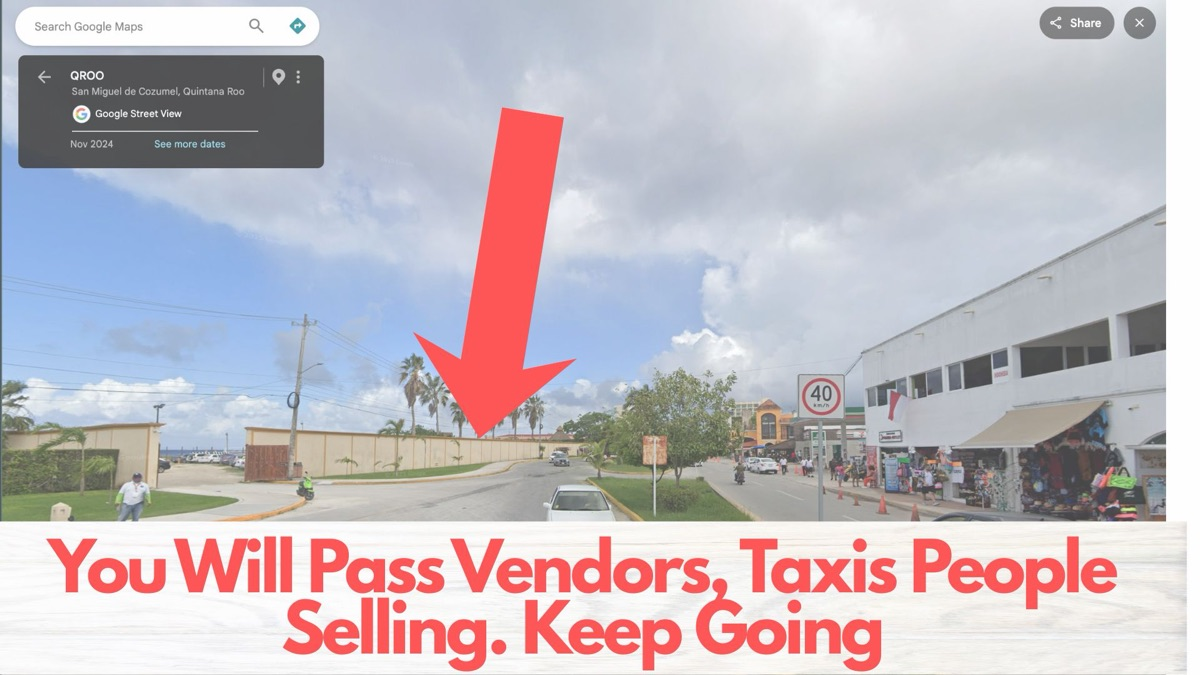
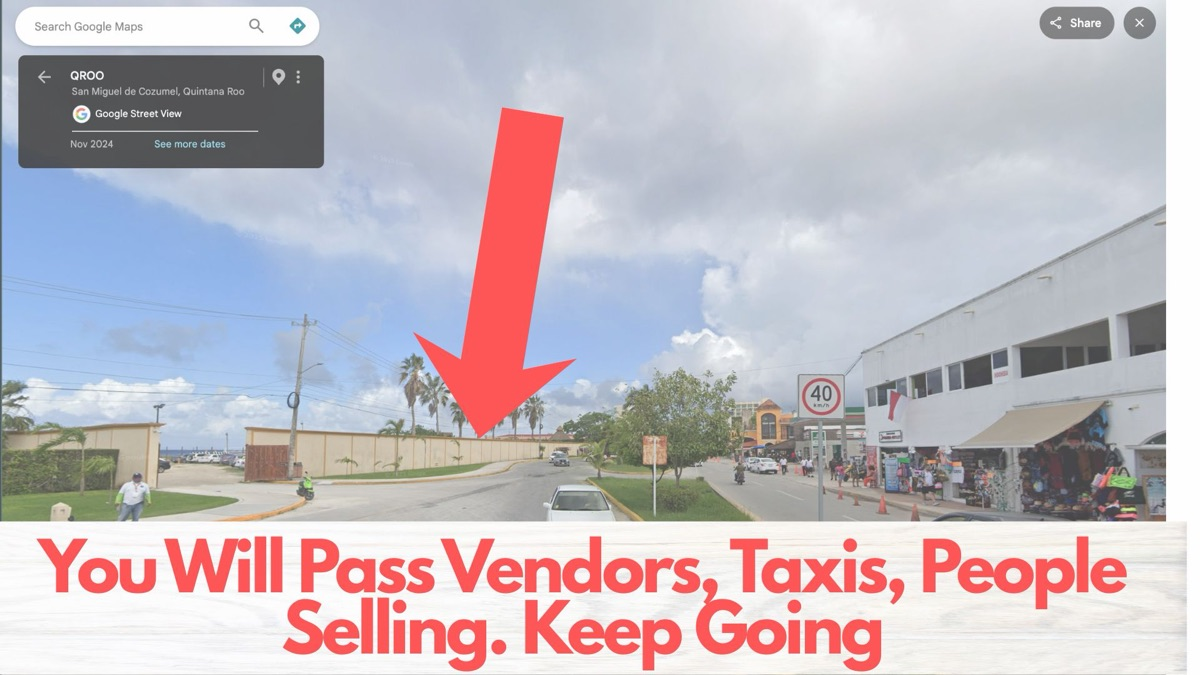
Puerta Maya goes live: Mike's photos, Mike's words, Google's route
Layout 1, the Filmstrip. Six full-width frames, one instruction each,
running times down the side.

His corrected photos replace the first set — same six shots, typos
fixed — resized 1920 to 1200 wide for ship wifi.

The static pin map is gone. In its place is Google's own walking
directions from the terminal door to the meeting point, plus a link
that opens the same route in the Maps app. A route beats a dot: it
answers 'how far' and 'which way' in one glance, and it is the thing
she can follow while walking.

No hero photograph, deliberately. Every frame carries a large caption
bar of its own, so overlaying white type on one would collide with
his. The collapsed hero says the same words in the same order and the
annotated photos do their work where they belong.

Changed region(s): [[0.0308, 0.7778, 0.9558, 0.9022]]

diff --git a/meet/puerta-maya.html b/meet/puerta-maya.html
@@ -4,76 +4,90 @@
 <meta charset="utf-8">
 <meta name="viewport" content="width=device-width,initial-scale=1">
 <title>Puerta Maya meeting point — Cozumel Island Transfers</title>
-<meta name="description" content="Puerta Maya cruise terminal, Cozumel: the meeting point for your Cozumel Island Transfers representative, two minutes from the pier.">
+<meta name="description" content="Puerta Maya cruise terminal, Cozumel: turn left, stay on the ocean side, and meet us at Royal Village Mall — two minutes on foot. Photos of every step.">
 <link rel="stylesheet" href="meet.css">
 </head>
 <body>
 <div class="wrap">
 
-  <!-- The photograph is the page. The hero falls back to flat navy until
-       Angel's shot lands, with the type in exactly the same place — so this
-       reads as finished now and becomes the real thing on file drop. -->
-  <div class="hero">
-    <img src="/assets/meet/south-hero.jpg" alt="The meeting point two minutes from the Puerta Maya terminal"
-         onerror="this.parentNode.classList.add(&#39;no-photo&#39;); this.remove()">
+  <!-- No hero photograph. Every frame Mike shot carries a big caption bar of
+       its own, so overlaying white type on one would collide with his. The
+       collapsed hero puts the same words in the same order on navy, and the
+       annotated photos do their work in the walkthrough where they belong. -->
+  <div class="hero no-photo">
     <a class="back" href="./">&larr; All terminals</a>
     <div class="over">
       <p class="k">Puerta Maya Cruise Terminal</p>
-      <h1>Two minutes from the pier</h1>
-      <p>Out of the terminal, turn left, and stay on the sidewalk by the ocean &mdash; about two minutes. Same spot for both southern piers.</p>
+      <h1>Royal Village Mall</h1>
+      <p>Turn left out of the terminal, stay on the ocean side, and keep going until the
+         gas station. About two minutes on foot.</p>
     </div>
   </div>
 
   <div class="acts">
     <a class="p" id="wa" href="#">WhatsApp</a>
-    <a class="s" href="https://maps.app.goo.gl/yUNo2PWQio1pqagS6" target="_blank" rel="noopener">Open map</a>
+    <a class="s" href="https://maps.app.goo.gl/k525Ucq59rzi12gr8"
+       target="_blank" rel="noopener">Walking route</a>
   </div>
 
-
   <section>
-    <h2>The exact spot</h2>
-    <div class="mapwrap">
-      <iframe src="https://maps.google.com/maps?q=20.47773,-86.97271&amp;z=18&amp;t=k&amp;output=embed"
-              loading="lazy" referrerpolicy="no-referrer-when-downgrade"
-              title="Map of the Puerta Maya Cruise Terminal meeting point"></iframe>
+    <h2>Getting there &middot; about 2 minutes</h2>
+    <div class="walk">
+      <div class="st">
+        <img src="/assets/meet/puerta-maya/1.jpg" alt="Do not cross the street" onerror="this.remove()">
+        <div class="txt"><span class="num">1</span><span class="say">Turn <b>left</b> and <b>do not cross
+          the street</b>. Stay on the ocean side.<span class="meta">0 min</span></span></div>
+      </div>
+      <div class="st">
+        <img src="/assets/meet/puerta-maya/2.jpg" alt="Vendors and taxis — keep going" onerror="this.remove()">
+        <div class="txt"><span class="num">2</span><span class="say">You will pass vendors, taxis and
+          people selling. Keep going until you see the gas station.<span class="meta">30 sec</span></span></div>
+      </div>
+      <div class="st">
+        <img src="/assets/meet/puerta-maya/3.jpg" alt="Pemex gas station" onerror="this.remove()">
+        <div class="txt"><span class="num">3</span><span class="say">Once you see the <b>Pemex gas
+          station</b>, you are going the right way. Keep on the sidewalk.<span class="meta">1 min</span></span></div>
+      </div>
+      <div class="st">
+        <img src="/assets/meet/puerta-maya/4.jpg" alt="Royal Village Mall" onerror="this.remove()">
+        <div class="txt"><span class="num">4</span><span class="say">You will see <b>Royal Village
+          Mall</b>.<span class="meta">1 min 30</span></span></div>
+      </div>
+      <div class="st">
+        <img src="/assets/meet/puerta-maya/5.jpg" alt="Cross the street" onerror="this.remove()">
+        <div class="txt"><span class="num">5</span><span class="say">That is where you <b>cross the
+          street</b>.<span class="meta">2 min</span></span></div>
+      </div>
+      <div class="st arrive">
+        <img src="/assets/meet/puerta-maya/6.jpg" alt="We are here" onerror="this.remove()">
+        <div class="txt"><span class="num">6</span><span class="say">Once you cross, <b>we are here</b>
+          &mdash; waiting in your van, with a sign holding your name.<span class="meta">You&rsquo;re here</span></span></div>
+      </div>
     </div>
-    <p class="caveat">Drag the map, or switch to Street View, to see the corner before you
-      arrive. It needs an internet connection &mdash; do it on the ship's wifi.</p>
   </section>
 
   <section>
-    <h2>Getting there</h2>
-    <div class="walk">
-      <div class="st">
-        <img src="/assets/meet/south-1.jpg" alt="Step 1"
-             onerror="this.remove()">
-        <div class="txt"><span class="num">1</span><span class="say">Walk out of the terminal and <b>turn left</b>.</span></div>
-      </div>
-      <div class="st">
-        <img src="/assets/meet/south-2.jpg" alt="Step 2"
-             onerror="this.remove()">
-        <div class="txt"><span class="num">2</span><span class="say"><b>Do not cross the street.</b> Stay on the sidewalk on the ocean side and keep walking.</span></div>
-      </div>
-      <div class="st note">
-        <img src="/assets/meet/south-3.jpg" alt="Step 3"
-             onerror="this.remove()">
-        <div class="txt"><span class="num">3</span><span class="say">You will pass vendors, taxi drivers, rental stands and people selling tours. <b>This is normal.</b> Nobody there is your driver. Say no thank you and keep going.</span></div>
-      </div>
-      <div class="st">
-        <img src="/assets/meet/south-4.jpg" alt="Step 4"
-             onerror="this.remove()">
-        <div class="txt"><span class="num">4</span><span class="say">About two minutes along, we are waiting for you with a sign showing your name.</span></div>
-      </div>
+    <h2>The walking route</h2>
+    <p class="caveat" style="margin:0 0 14px">Google's own directions, terminal to meeting point.</p>
+    <div class="mapwrap">
+      <iframe src="https://www.google.com/maps/embed?pb=!1m28!1m12!1m3!1d5124.746798922552!2d-86.97556453804906!3d20.477212256412315!2m3!1f0!2f0!3f0!3m2!1i1024!2i768!4f13.1!4m13!3e2!4m5!1s0x8f4e57491a71c81d%3A0x6933058e58e0ee3d!2sPuerta%20Maya%20Cruise%20Ship%20Maritime%20Terminal%2C%2077675%20Cozumel%2C%20Q.R.!3m2!1d20.4765505!2d-86.9734337!4m5!1s0x8f4e574f55db2b57%3A0xbdfae2916f2ec4d6!2sC.%20Ninguno%205%2C%2077675%20Cozumel%2C%20Q.R.!3m2!1d20.4776794!2d-86.97255849999999!5e1!3m2!1sen!2smx!4v1785845529929!5m2!1sen!2smx"
+              style="border:0" allowfullscreen loading="lazy"
+              referrerpolicy="strict-origin-when-cross-origin"
+              title="Walking route from Puerta Maya terminal to the meeting point"></iframe>
     </div>
+    <a class="btn btn-map" href="https://maps.app.goo.gl/k525Ucq59rzi12gr8"
+       target="_blank" rel="noopener">Open the route in Google Maps</a>
+    <p class="caveat">The map needs an internet connection. The photos above do not &mdash;
+      screenshot them on the ship's wifi.</p>
   </section>
 
   <section>
     <div class="offline">
       <b>No signal when you step off?</b> Most phones have no data in Cozumel until you buy a
-      plan. Screenshot this page while you still have the ship's wifi — the map below is the exact spot.
+      plan. Screenshot this page while you still have the ship's wifi &mdash; the gas station and
+      Royal Village Mall are all you need to find us.
     </div>
   </section>
-
 
   <footer>
     <p class="f-white">Cozumel Island Transfers</p>
@@ -83,11 +97,8 @@
 </div>
 
 <script>
-(function(){
-  document.getElementById('wa').href = 'https://wa.me/5219871146853?text=' +
-    encodeURIComponent("Hi, I have a question from Cozumel Island Transfers. I'm at Puerta Maya.");
-
-})();
+document.getElementById('wa').href = 'https://wa.me/5219871146853?text=' +
+  encodeURIComponent("Hi, I have a question from Cozumel Island Transfers. I'm at Puerta Maya.");
 </script>
 </body>
 </html>

diff --git a/meet/meet.css b/meet/meet.css
@@ -164,3 +164,7 @@ footer p + p{margin-top:6px}
 /* The one that stops her panicking. Not a warning — a reassurance, so it is
    grey and calm rather than red and loud. */
 .walk .st.note .say{background:var(--surface); border-radius:12px; padding:16px 18px}
+
+/* Running time on each step — how far she has left to walk. This was the
+   Trail layout's one real advantage; it costs the Filmstrip nothing. */
+.walk .meta{display:block; font-size:13.5px; color:var(--mute-2); margin-top:4px}
